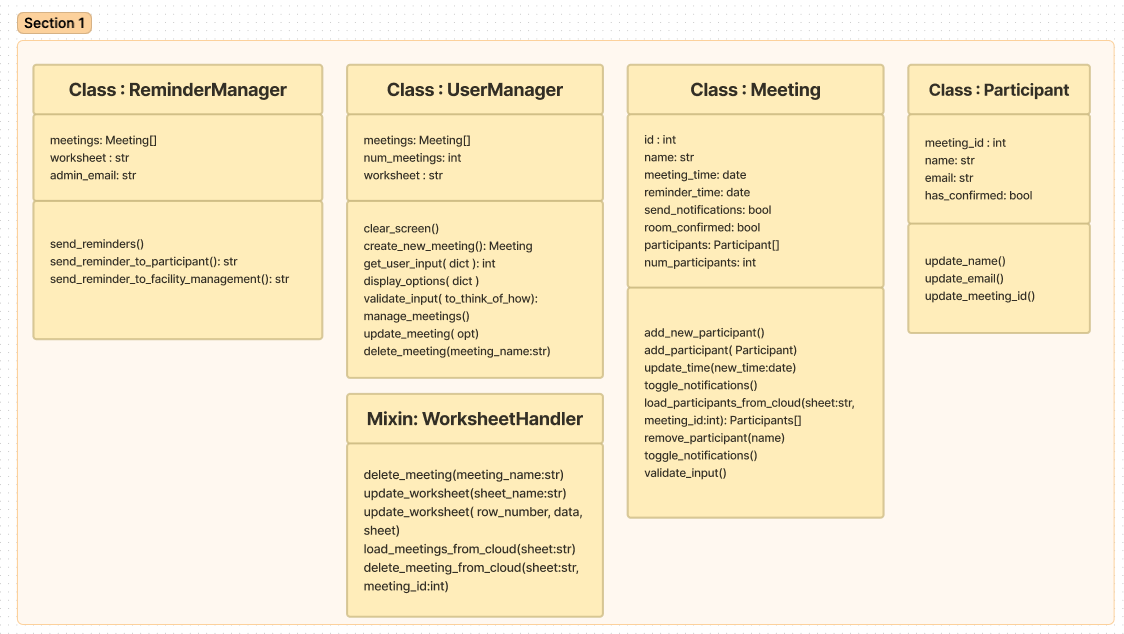
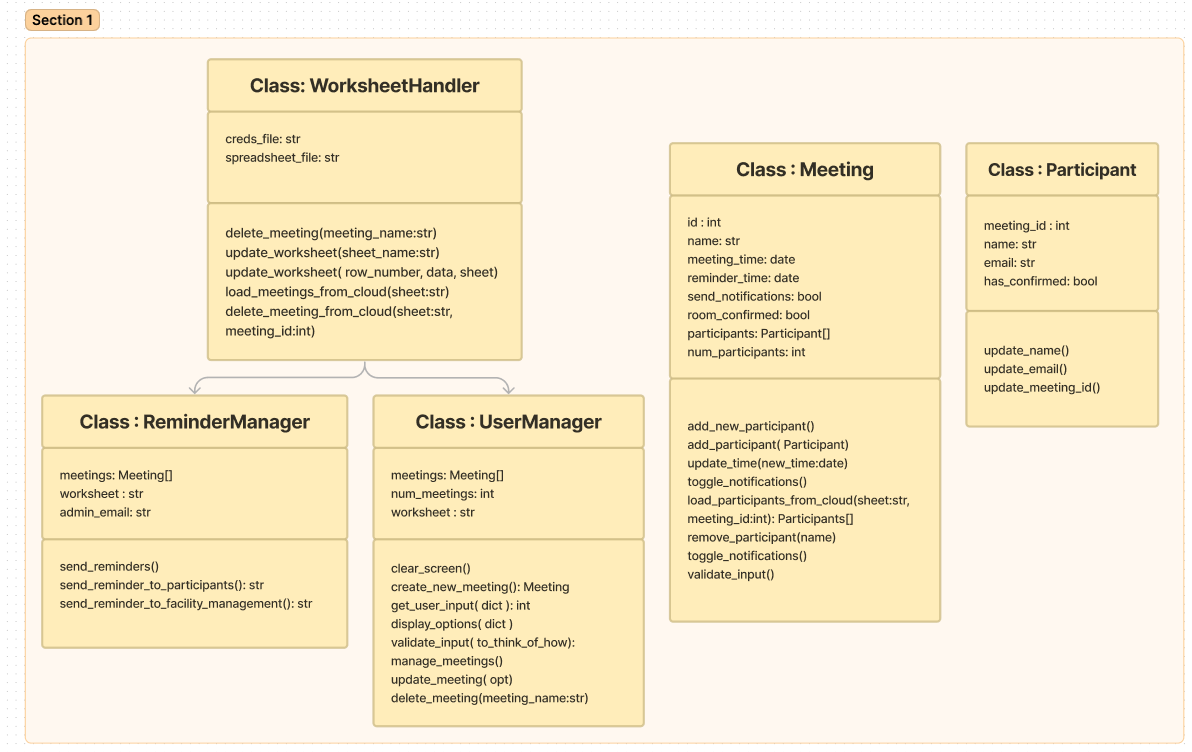
update class diagram and add to README

diff --git a/README.md b/README.md
@@ -173,7 +173,9 @@ The information about meetings and participants will be stored using Google shee
 Two main classes will be used to describe the workflow
 - Meeting Class: to describe details of the meeting (that consists of participants)
 - Participant Class: to describe details of the participant
-- ReminderSystem Class: to handle I/O of meetings to google sheets   
+- UserManager Class: to handle user inputs from the terminal 
+- ReminderManager Class: to handle email reminders to the participants 
+- WorksheetHandler Class : to implement common I/O functions with google sheets
 
 <table style='max-width:70%'>
     <tr>
